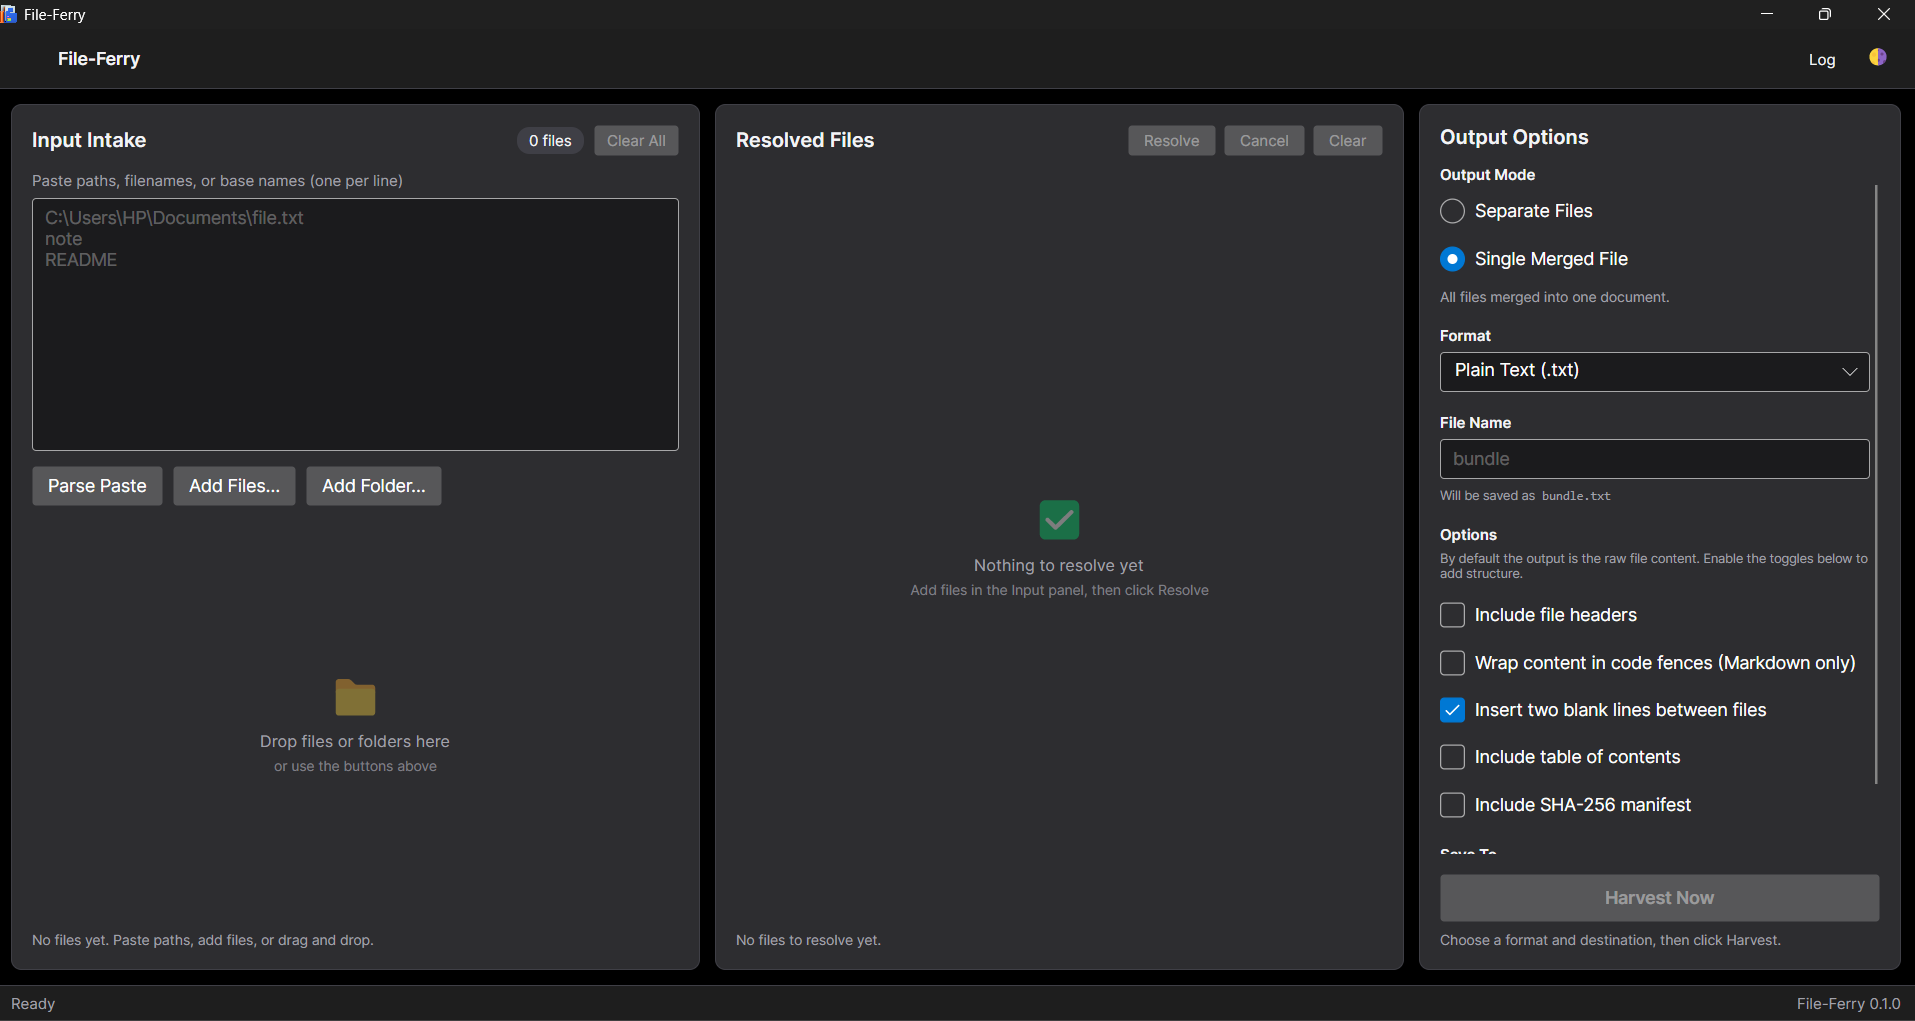
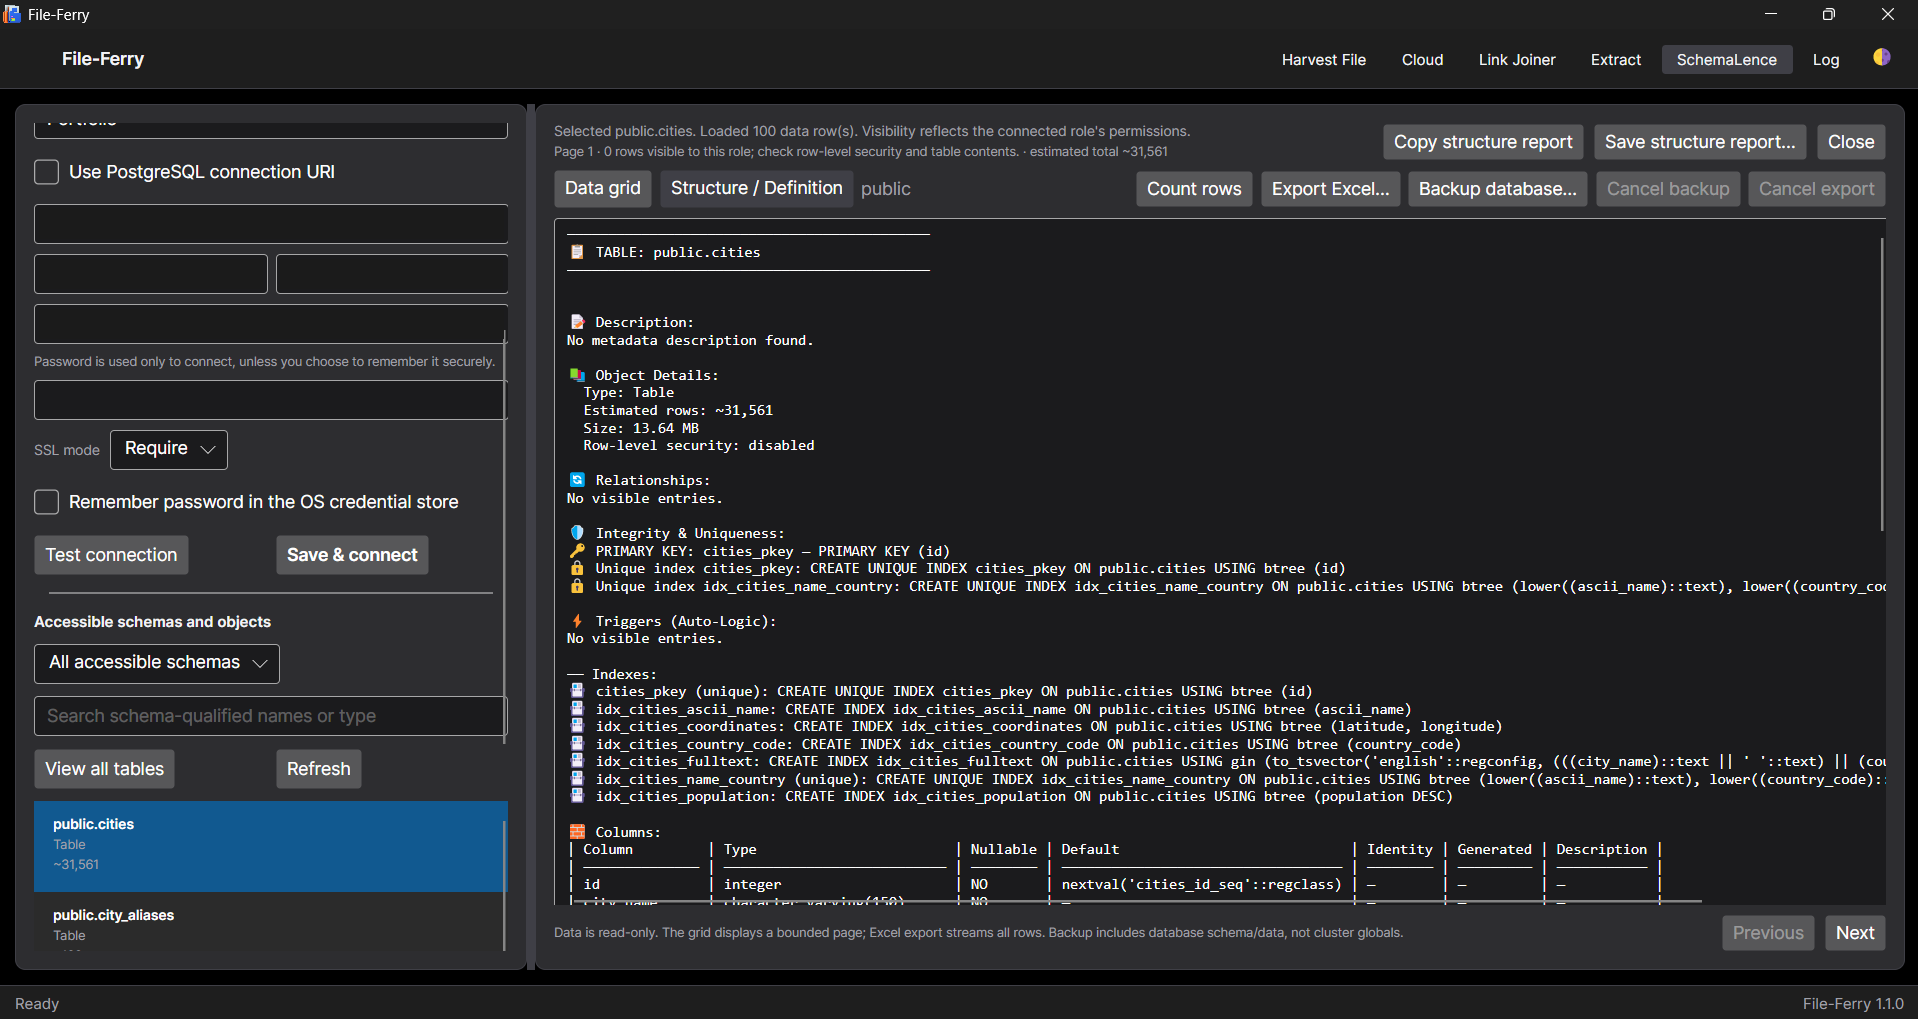
Add screenshots to README

diff --git a/README.md b/README.md
@@ -283,7 +283,23 @@ MIT License — see [`LICENSE`](LICENSE).
 <p align="center">
   <img
     src="docs/screenshots/Screenshot.png"
-    alt="File-Ferry Screenshot"
+    alt="SchemaLence structure report"
+    width="900"
+  >
+</p>
+
+<p align="center">
+  <img
+    src="docs/screenshots/Screenshot1.png"
+    alt="SchemaLence data grid"
+    width="900"
+  >
+</p>
+
+<p align="center">
+  <img
+    src="docs/screenshots/Screenshot2.png"
+    alt="File-Ferry cloud connections"
     width="900"
   >
 </p>
